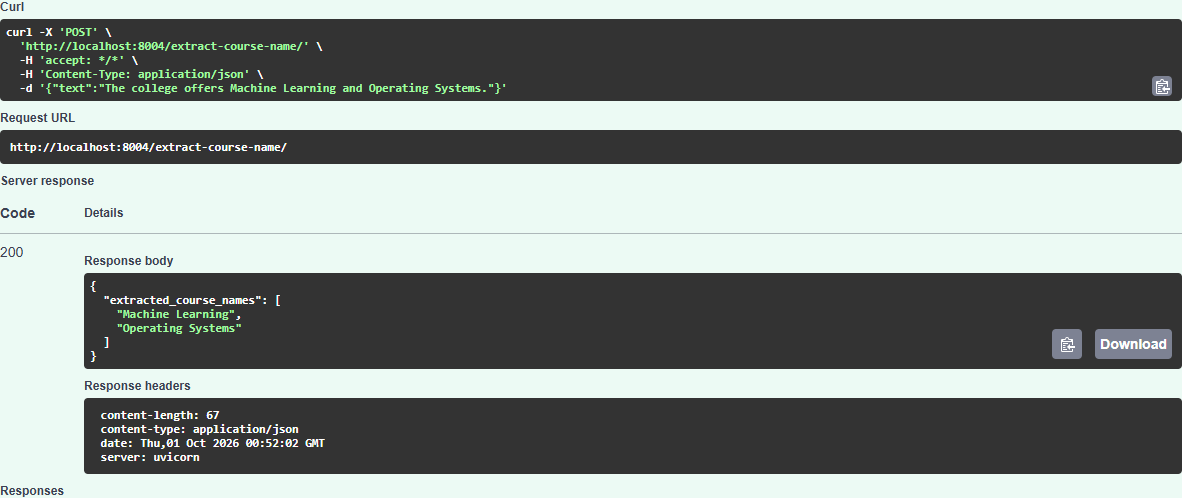
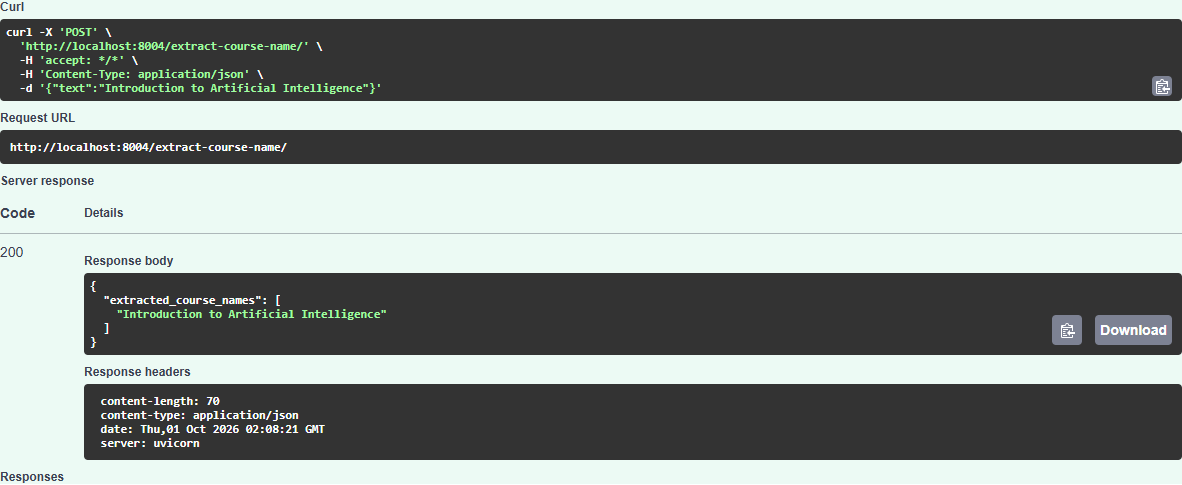
Use reference BERT-large model for Assignment 4

Changed region(s): [[0.0, 0.0309, 1.0, 0.6804], [0.0609, 0.6495, 1.0, 0.9278], [0.0, 0.9588, 0.0609, 0.9897]]

diff --git a/Assignment-4/train.py b/Assignment-4/train.py
@@ -17,6 +17,10 @@ from course_ner import LABELS, align_labels
 from prepare_data import ROOT, build_splits
 
 
+BASE_MODEL = "dbmdz/bert-large-cased-finetuned-conll03-english"
+BASE_REVISION = "4c534963167c08d4b8ff1f88733cf2930f86add0"
+
+
 def tokenize_dataset(examples, tokenizer):
     dataset = Dataset.from_pandas(pd.DataFrame(examples), preserve_index=False)
 
@@ -44,38 +48,43 @@ def compute_metrics(prediction):
 
 def main():
     parser = argparse.ArgumentParser(description="Fine-tune a course-name token classifier")
-    parser.add_argument("--base-model", default="prajjwal1/bert-mini")
+    parser.add_argument("--base-model", default=BASE_MODEL)
     parser.add_argument("--base-revision", default=None)
     parser.add_argument("--epochs", type=int, default=3)
-    parser.add_argument("--learning-rate", type=float, default=3e-4)
+    parser.add_argument("--learning-rate", type=float, default=2e-5)
+    parser.add_argument("--batch-size", type=int, default=4)
     parser.add_argument("--model-dir", type=Path, default=ROOT / "model" / "course-ner")
     parser.add_argument("--report", type=Path, default=ROOT / "evidence" / "training-metrics.json")
     args = parser.parse_args()
     set_seed(42)
-    torch.set_num_threads(int(os.getenv("TORCH_NUM_THREADS", "4")))
+    torch.set_num_threads(int(os.getenv("TORCH_NUM_THREADS", "6")))
     splits = build_splits()
     revision = args.base_revision
-    if revision is None and args.base_model == "prajjwal1/bert-mini":
-        revision = "5e123abc2480f0c4b4cac186d3b3f09299c258fc"
+    if revision is None and args.base_model == BASE_MODEL:
+        revision = BASE_REVISION
     tokenizer = AutoTokenizer.from_pretrained(args.base_model, revision=revision, use_fast=True)
     model = AutoModelForTokenClassification.from_pretrained(
         args.base_model, num_labels=len(LABELS), id2label=dict(enumerate(LABELS)),
         label2id={label: i for i, label in enumerate(LABELS)}, ignore_mismatched_sizes=True,
         revision=revision,
     )
+    model.config.course_base_model = args.base_model
     training = tokenize_dataset(splits["train"], tokenizer)
     validation = tokenize_dataset(splits["validation"], tokenizer)
     arguments = TrainingArguments(
-        output_dir=str(ROOT / "training-output"), eval_strategy="epoch", save_strategy="epoch",
-        learning_rate=args.learning_rate, per_device_train_batch_size=8,
-        per_device_eval_batch_size=16, num_train_epochs=args.epochs, weight_decay=0.01,
-        warmup_ratio=0.1, load_best_model_at_end=True, metric_for_best_model="f1",
-        save_total_limit=1, report_to="none", logging_steps=25, seed=42, use_cpu=True,
+        output_dir=str(ROOT / "training-output" / "bert-large"), eval_strategy="epoch", save_strategy="epoch",
+        learning_rate=args.learning_rate, per_device_train_batch_size=args.batch_size,
+        per_device_eval_batch_size=4, num_train_epochs=args.epochs,
+        load_best_model_at_end=True, metric_for_best_model="f1",
+        save_total_limit=1, save_only_model=True, report_to="none", logging_steps=10, seed=42, use_cpu=True,
     )
     trainer = Trainer(
         model=model, args=arguments, train_dataset=training, eval_dataset=validation,
         processing_class=tokenizer, data_collator=DataCollatorForTokenClassification(tokenizer),
         compute_metrics=compute_metrics,
+        optimizer_cls_and_kwargs=(torch.optim.AdamW, {
+            "lr": args.learning_rate, "betas": (0.9, 0.999), "eps": 1e-8, "foreach": False,
+        }),
     )
     baseline_metrics = trainer.evaluate()
     result = trainer.train()
@@ -85,7 +94,10 @@ def main():
     report = {
         "base_model": args.base_model, "base_revision": model.config._commit_hash,
         "seed": 42, "epochs": args.epochs, "learning_rate": args.learning_rate,
-        "batch_size": 8, "device": "cpu", "parameters": sum(p.numel() for p in model.parameters()),
+        "batch_size": args.batch_size, "device": "cpu", "threads": torch.get_num_threads(),
+        "parameters": sum(p.numel() for p in model.parameters()),
+        "hidden_layers": model.config.num_hidden_layers, "hidden_size": model.config.hidden_size,
+        "epoch_history": [entry for entry in trainer.state.log_history if "eval_f1" in entry],
         "split_sizes": {key: len(value) for key, value in splits.items()},
         "train": result.metrics, "baseline_validation": baseline_metrics, "validation": validation_metrics,
         "best_checkpoint": Path(trainer.state.best_model_checkpoint).name,

diff --git a/Assignment-4/tests/test_extraction.py b/Assignment-4/tests/test_extraction.py
@@ -47,6 +47,9 @@ def test_missing_checkpoint_fails_explicitly(tmp_path):
 @pytest.mark.skipif(not (ROOT / "model" / "course-ner" / "config.json").exists(), reason="Train the checkpoint first")
 def test_trained_checkpoint_extracts_real_course_spans():
     extractor = CourseExtractor(ROOT / "model" / "course-ner")
+    assert extractor.model.config.course_base_model == "dbmdz/bert-large-cased-finetuned-conll03-english"
+    assert extractor.model.config.num_hidden_layers == 24
+    assert extractor.model.config.hidden_size == 1024
     assert extractor.extract("The college offers Machine Learning and Operating Systems.") == [
         "Machine Learning", "Operating Systems",
     ]

diff --git a/Assignment-4/evaluate_model.py b/Assignment-4/evaluate_model.py
@@ -25,6 +25,9 @@ def main():
     precision = true_positive / predicted_count if predicted_count else 0
     recall = true_positive / expected_count if expected_count else 0
     report = {
+        "base_model": extractor.model.config.course_base_model,
+        "hidden_layers": extractor.model.config.num_hidden_layers,
+        "hidden_size": extractor.model.config.hidden_size,
         "examples": len(records), "expected_entities": expected_count, "predicted_entities": predicted_count,
         "correct_entities": true_positive, "precision": precision, "recall": recall,
         "f1": 2 * precision * recall / (precision + recall) if precision + recall else 0,

diff --git a/Assignment-4/RESULTS.md b/Assignment-4/RESULTS.md
@@ -4,18 +4,20 @@ Run date: 1 October 2026.
 
 ## Fine-tuning
 
-The Docker training stage fine-tuned `prajjwal1/bert-mini` on 442 synthetic examples for three epochs. It used CPU, batch size 8, learning rate `3e-4` and seed 42. The selected checkpoint was `checkpoint-168` from epoch 3. The test split was not used to select the checkpoint.
+The Docker training stage fine-tuned `dbmdz/bert-large-cased-finetuned-conll03-english`, the model named in the reference exercise, on 442 synthetic examples. Training completed three epochs on CPU with batch size 4, learning rate `2e-5` and seed 42. The model has 24 hidden layers, hidden size 1024 and 332,532,739 parameters after replacing the classification head with three course labels.
+
+Training took 1,313.92 seconds, about 22 minutes, excluding downloads and image packaging. Validation entity F1 was 100% after each epoch. The trainer retained `checkpoint-111` from epoch 1 because the later epochs tied its F1. The test split was not used to select the checkpoint.
 
 | Measurement | Result |
 |---|---:|
-| Validation entity F1 before fine-tuning | 4.47% |
-| Validation entity F1 after fine-tuning | 97.96% |
-| Test exact-course precision | 75.86% |
-| Test exact-course recall | 91.67% |
-| Test exact-course F1 | 83.02% |
-| Test sentences with all names correct | 35 / 42 |
+| Validation entity F1 before fine-tuning | 0% |
+| Validation entity F1 after fine-tuning | 100% |
+| Test exact-course precision | 100% |
+| Test exact-course recall | 100% |
+| Test exact-course F1 | 100% |
+| Test sentences with all names correct | 42 / 42 |
 
-The test contained 48 course entities. The model returned 58 names, of which 44 were exact matches. Evaluation used the checkpoint copied from the built Docker image; the running API produced the same predictions for all 42 test sentences.
+The test contained 48 course entities. The model returned 48 names, all exact matches. Evaluation used the checkpoint copied from the built Docker image; the running API produced the same predictions for all 42 test sentences.
 
 Raw records: [training metrics](evidence/training-metrics.json) and [all test predictions](evidence/test-metrics.json).
 
@@ -52,8 +54,6 @@ The following screenshot shows an executed Swagger request, not the example resp
 
 ## Observations
 
-The model still makes mistakes. Some test sentences split `Introduction to Artificial Intelligence` into two names, and the bookstore sentence incorrectly produced `notebooks` and `pencils`. These errors are retained in the test report. The dataset is small and synthetic, so the results should not be treated as accuracy on real college brochures.
+There were no extraction errors in the 42-example test split. This is a small synthetic dataset with separate course titles and templates in each split. A perfect score here does not establish accuracy on real college brochures or arbitrary text. All test predictions are retained in the report.
 
-The first container startup could not read the saved weights because the training stage created them with owner-only permissions. Giving the copied model files to `appuser` fixed the startup; the rebuilt container passed the health and extraction checks.
-
-The implementation follows the exercise's dataset, Hugging Face training, FastAPI endpoint, Docker build/run and POST testing steps. It uses a smaller pretrained BERT and Python 3.12 instead of the example's BERT-large and Python 3.8. The container still serves on port 80; host port 8004 keeps this assignment separate from the earlier services.
+The implementation uses the reference's BERT-large model, three epochs, batch size 4 and learning rate `2e-5`. It implements course-span labels and decoding rather than returning the whole input. Python 3.12 is used instead of the example's Python 3.8. The container serves on port 80; host port 8004 keeps this assignment separate from the earlier services.

diff --git a/Assignment-4/README.md b/Assignment-4/README.md
@@ -18,7 +18,7 @@ The dataset is a synthetic lab catalogue, not an official college course list. I
 
 Each course name is recorded as a character span. Tokenization converts these spans into `B-COURSE`, `I-COURSE` and `O` labels. Special tokens receive `-100` so they are excluded from the training loss. Predictions are joined using tokenizer offsets to preserve the spelling in the original text.
 
-The default run uses `prajjwal1/bert-mini`, a smaller pretrained BERT model that can be fine-tuned on CPU. SunagP's example uses `dbmdz/bert-large-cased-finetuned-conll03-english`; the training script accepts that model through `--base-model` as well. The smaller model and the completed BIO labeling are implementation choices, not copies of the unfinished example.
+The model is `dbmdz/bert-large-cased-finetuned-conll03-english`, the BERT-large checkpoint named in SunagP's exercise. Its original entity-classification head is replaced with the three course labels before fine-tuning. The base checkpoint revision is pinned in `train.py`.
 
 ## Train locally
 
@@ -34,17 +34,11 @@ py -3.12 -m venv .venv
 .\.venv\Scripts\python.exe -m pytest -q
 ```
 
-Training uses Hugging Face `Dataset.from_pandas()`, `AutoTokenizer`, `AutoModelForTokenClassification` and `Trainer`. The default run uses three epochs, batch size 8, learning rate `3e-4` and seed 42. It selects the checkpoint using validation F1, then evaluates the separate test split.
+Training uses Hugging Face `Dataset.from_pandas()`, `AutoTokenizer`, `AutoModelForTokenClassification` and `Trainer`. It uses three epochs, batch size 4 and learning rate `2e-5`, matching the reference's sample training settings. Seed 42 keeps the run reproducible. Validation F1 selects the checkpoint; evaluation then uses the separate test split.
 
 The trained model and tokenizer are saved under `model/course-ner`. Generated weights and training checkpoints are excluded from Git; source data, scripts and recorded results are included. An internet connection is needed for the initial pretrained model and package downloads.
 
-To use the model named in the reference instead:
-
-```powershell
-.\.venv\Scripts\python.exe train.py --base-model dbmdz/bert-large-cased-finetuned-conll03-english --learning-rate 2e-5
-```
-
-That command needs substantially more memory and training time than the default run.
+BERT-large training needs several gigabytes of available RAM and takes longer on CPU. Sentence batches use dynamic padding. Checkpoints save model weights without optimizer state to reduce disk use; those checkpoints are for evaluation, not resuming interrupted training.
 
 ## FastAPI
 
